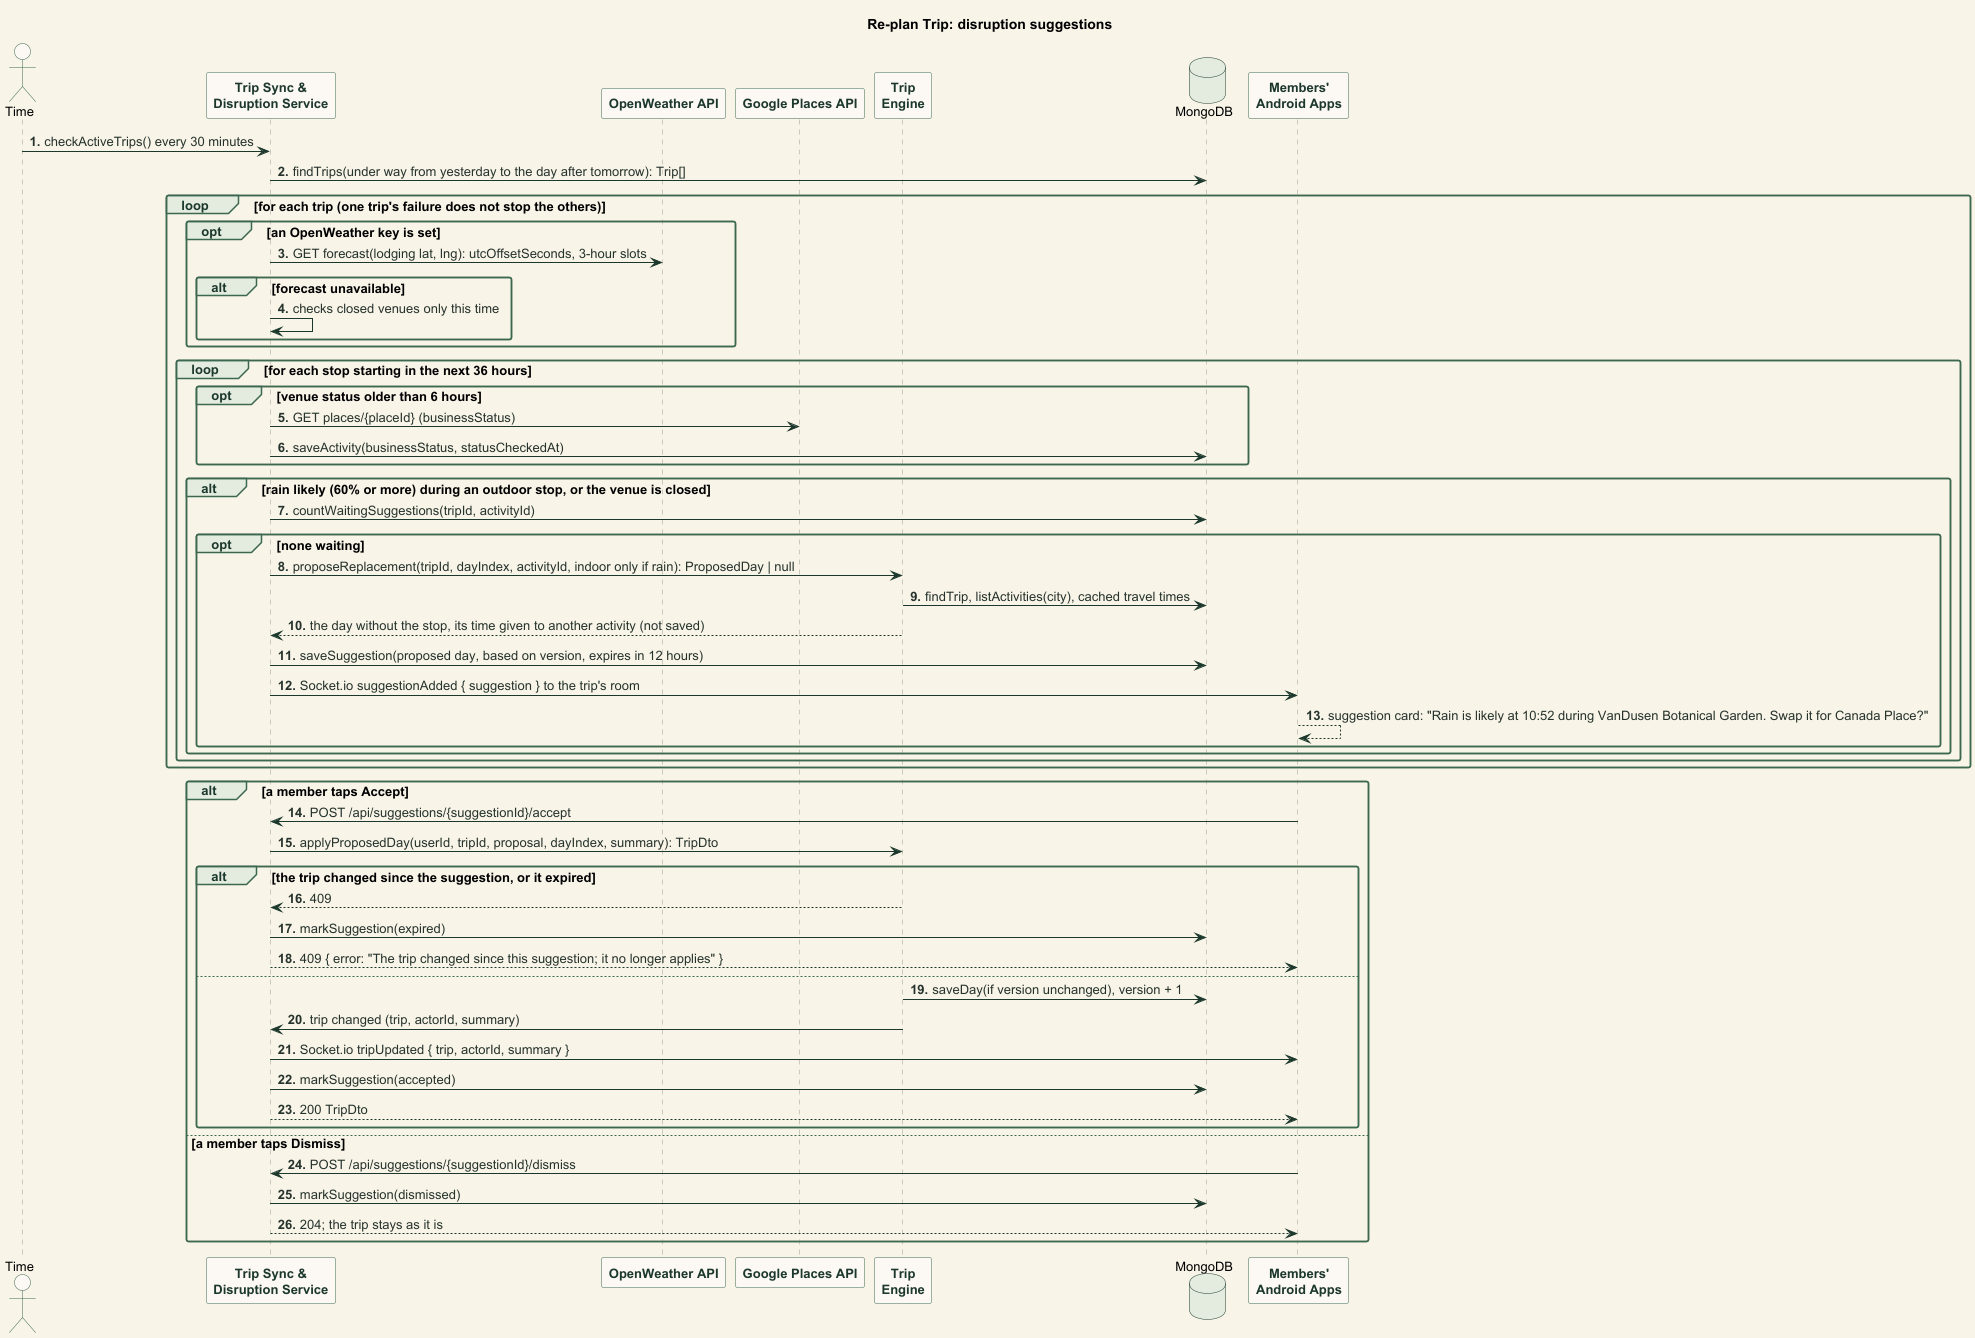
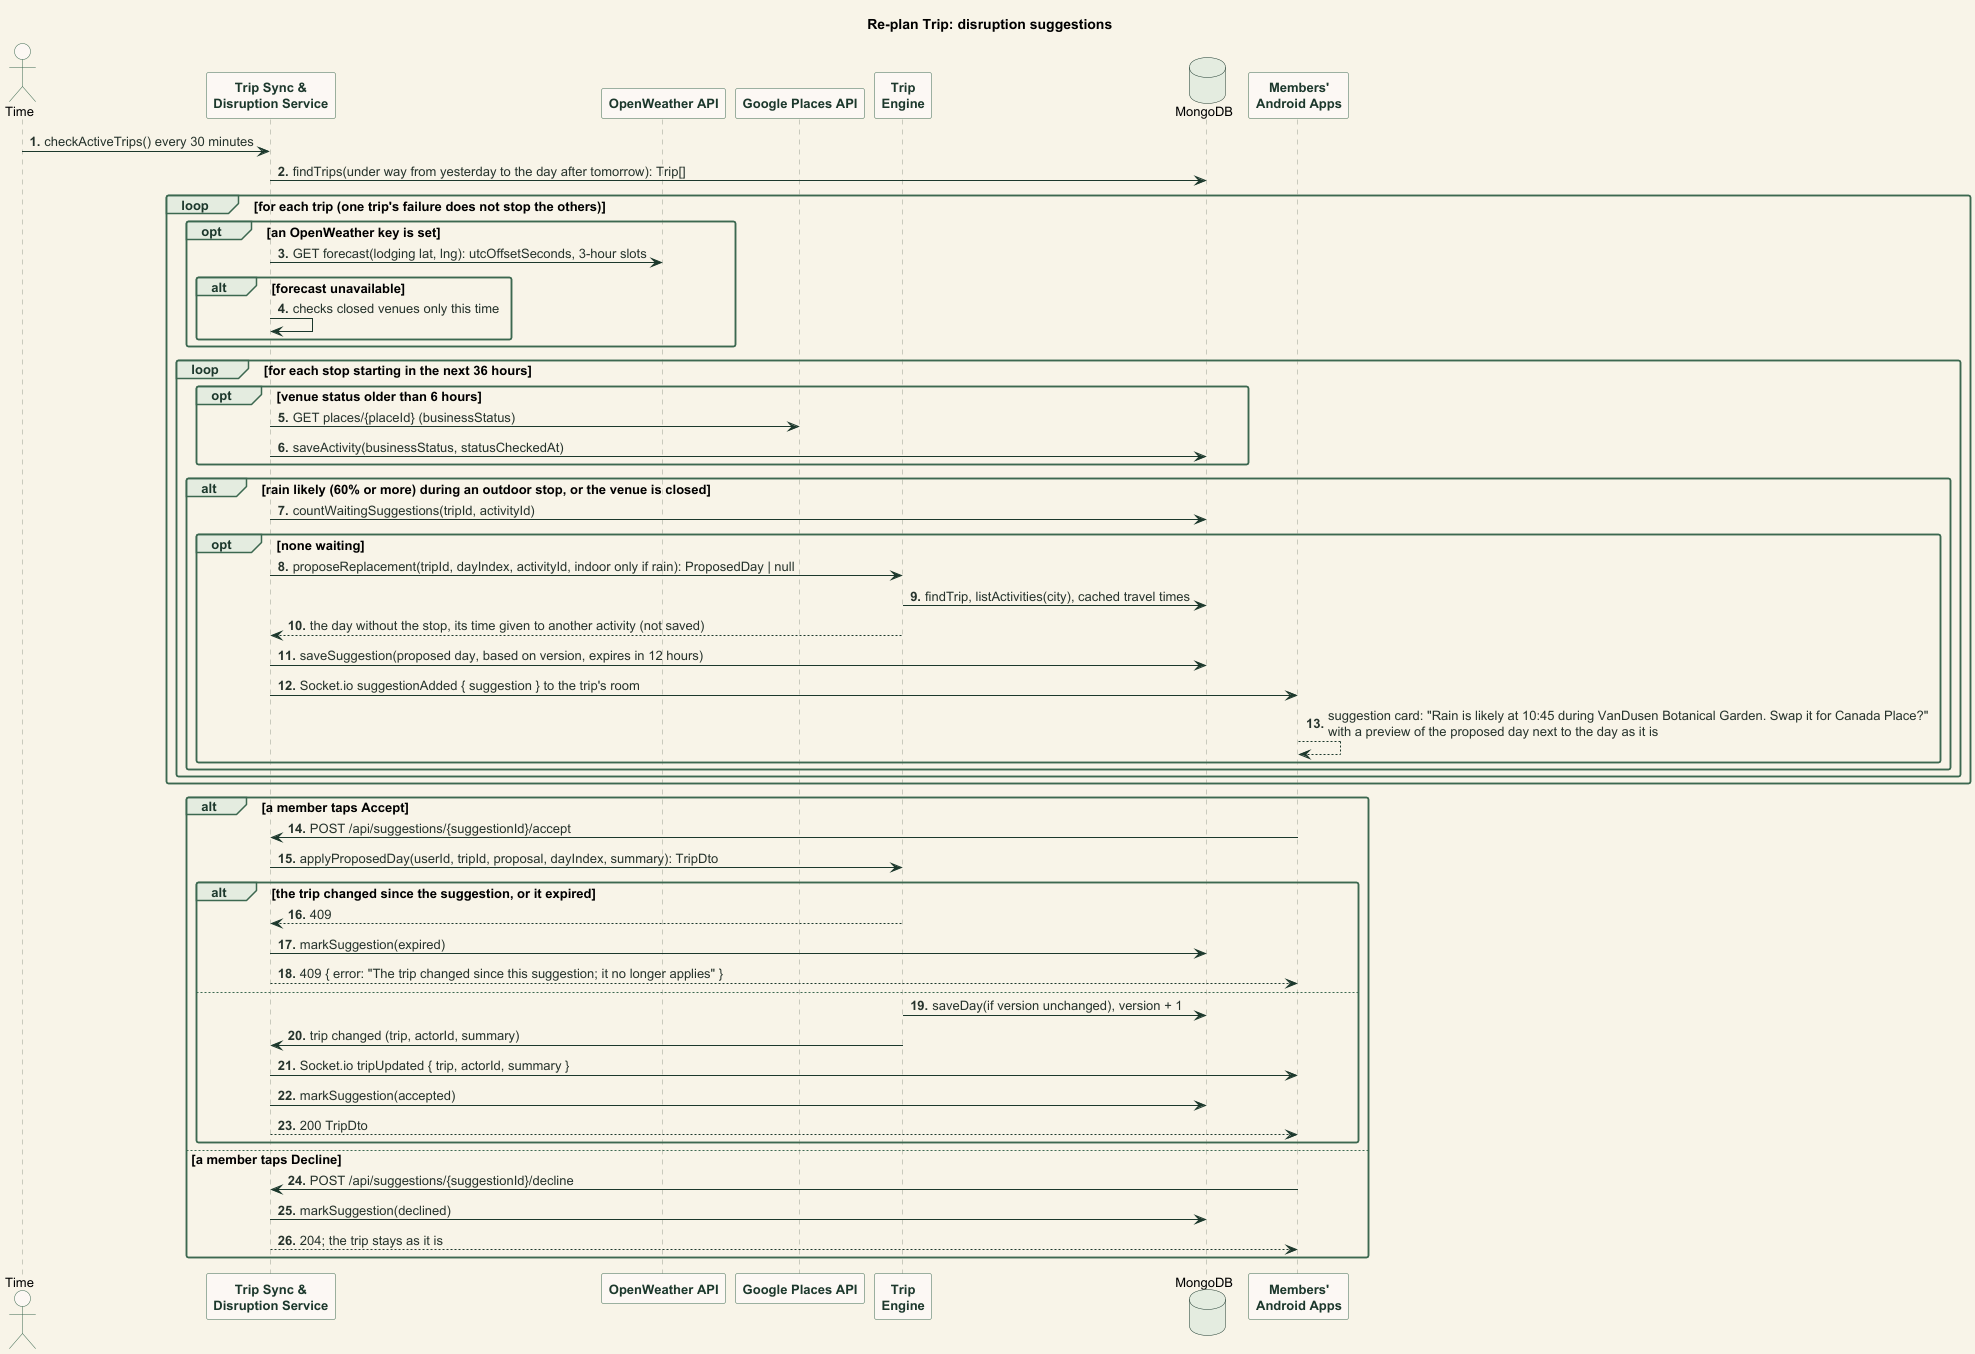
docs: document suggestion previews and Decline
Re-plan Trip shows the preview before a member answers, and Dismiss is
Decline in the use case, the interfaces, the sequence and dependency
diagrams, and Testing.md.

diff --git a/documentation/Requirements_and_Design.md b/documentation/Requirements_and_Design.md
@@ -22,6 +22,7 @@
 | 2026-11-12 | 4.1 | Fixed the peer review's major fault: a member removed from a group kept receiving its live locations. The Group Service now announces who lost access, and the hub disconnects them from the group's trips at once (`tripAccessLost`); every shared position also re-checks access. |
 | 2026-11-12 | 3.1, 4.1 | Added live updates for friends, groups, join requests, posts and suggestions (`liveEvent`), after CP2 feedback asked for friends being added and members joining to appear without a refresh. Each traveller's devices share a room, so one event reaches all of them. |
 | 2026-11-12 | 3.1, 3.4, 4.1, 4.2 | Added red dots for what is new, owned by a new Notification Service that keeps each live event until the traveller opens its part of the app, so the dots survive a restart. The Groups tab replaces the Nearby tab and holds both the traveller's groups and nearby trips, so the dot for group news has a tab. |
+| 2026-11-12 | 3.4, 3.5, 4.1, 4.6 | A suggestion now carries the whole proposed day with its times, and the app previews it against the day as it is before a member answers, after CP2 feedback asked to see the change first. "Dismiss" became "Decline" to match the words used everywhere else (add, remove, accept, decline). |
 | 2026-11-12 | 3.1, 4.1 | Stop times now start on a 15-minute grid (09:15 rather than 09:07), after CP2 feedback that minute-exact times looked machine-made. Rounding waits a few minutes longer, never shortens travel, and is skipped only when it would miss a closing time. |
 
 ---
@@ -93,7 +94,7 @@ Each feature is a package, and each branch of an actor's line ends at one of its
   13. **Notify Trip Party**: every member's device receives the updated plan when it changes. Included by Add Place to Trip, View & Adjust Trip, Tick Off Stops on Arrival and Re-plan Trip.
 - Use cases for feature 5: **Disruption-aware re-planning**
   14. **Monitor Trip Conditions**: on a timer, the system checks the forecast and venue status of active trips' upcoming stops.
-  15. **Re-plan Trip**: for a disrupted stop, the system suggests a new day that members accept or dismiss.
+  15. **Re-plan Trip**: for a disrupted stop, the system suggests a new day that members preview, then accept or decline.
 - Use cases for feature 6: **Friends and the trip feed**
   16. **Find Travellers**: a traveller searches for others by name or email and opens a profile.
   17. **Manage Friends**: a traveller sends, answers or cancels friend requests, or removes a friend.
@@ -249,7 +250,7 @@ Each feature is a package, and each branch of an actor's line ends at one of its
 1. Every 30 minutes, the system checks the stops starting in the next 36 hours of each trip under way: the forecast for outdoor stops (a 60% chance of rain or more) and Google's business status for every stop.
 2. The system detects a disruption: rain during an outdoor stop, or a closed venue.
 3. The system plans the day without that stop, filling the time with another activity (only indoor ones in the rain) and keeping locked stops.
-4. Every member with the trip open sees a suggestion card above the trip with the proposed day, for example "Rain is likely at 10:52 during VanDusen Botanical Garden. Swap it for Canada Place?".
+4. Every member with the trip open sees a suggestion card above the trip, for example "Rain is likely at 10:45 during VanDusen Botanical Garden. Swap it for Canada Place?", with a preview of the day if they accept: every stop with its new time, the removed stop struck through, the new one marked New, and moved ones with their old time.
 5. A member taps Accept.
 6. The system saves the new day, and every member's app shows it with "Ava accepted a suggestion: swapped VanDusen Botanical Garden for Canada Place".
 
@@ -260,7 +261,7 @@ Each feature is a package, and each branch of an actor's line ends at one of its
     - 3a1. The suggestion offers to take the stop out and keep the time free.
 - 4a. A member's device is offline or the trip is not open.
     - 4a1. The suggestion appears the next time they open the trip.
-- 5a. A member taps Dismiss.
+- 5a. A member taps Decline.
     - 5a1. The suggestion disappears and the plan stays as it is.
 - 5b. Someone changed the trip after the suggestion was made, or 12 hours passed.
     - 5b1. The suggestion is no longer shown; accepting it anyway shows "The trip changed since this suggestion; it no longer applies".
@@ -389,11 +390,11 @@ Screens from the CP1 build:
         8. `boolean suggest(ObjectId tripId, int dayIndex, String activityId, String reason)` and server event `suggestionAdded { suggestion: SuggestionDto }`
             - **Purpose**: Asks the Trip Engine for the day without the disrupted stop, saves it as a suggestion for 12 hours, and pushes it to the room, unless one is already waiting for that stop.
         9. `GET /api/suggestions?tripId=<id>` returns `{ suggestions: SuggestionDto[] }`
-            - **Purpose**: Returns the trip's waiting suggestions for its current version. `SuggestionDto` is `{ id, tripId, dayIndex, date, activityId, activityName, reason, message, proposedStops, createdAt, expiresAt }`.
+            - **Purpose**: Returns the trip's waiting suggestions for its current version. `SuggestionDto` is `{ id, tripId, dayIndex, date, activityId, activityName, reason, message, proposedStops, proposedDay, createdAt, expiresAt }`; `proposedDay` is `{ stops: [{ activityId, name, startTime, endTime, travelMinutes }], returnTravelMinutes }`, the whole day if accepted, for the preview.
         10. `POST /api/suggestions/{suggestionId}/accept` returns `TripDto`
             - **Purpose**: Saves the proposed day if the trip is unchanged (409 otherwise) and pushes it like any adjustment.
-        11. `POST /api/suggestions/{suggestionId}/dismiss` returns 204
-            - **Purpose**: Turns the suggestion down. Each suggestion is answered once (409 after that).
+        11. `POST /api/suggestions/{suggestionId}/decline` returns 204
+            - **Purpose**: Declines the suggestion; the trip stays as it is. Each suggestion is answered once (409 after that).
 
 6. **Friend Service**
     - **Purpose**: Manages traveller search, friend requests, friendships and account privacy. It is separate so the rule for who sees a traveller's details and posts lives in one place.

diff --git a/documentation/Testing.md b/documentation/Testing.md
@@ -22,6 +22,7 @@
 | 2026-11-12 | 2.1.1 | Added the live event interfaces (`liveEvent`) for friends, groups, join requests, posts and suggestions. |
 | 2026-11-12 | 2.1.1 | Added the Notification Service interfaces (`GET /api/notifications`, `POST /api/notifications/read`). |
 | 2026-11-12 | 2.1.1 | Plan Trip's interface tests now check that every stop is on the 15-minute grid. |
+| 2026-11-12 | 2.1.1 | The suggestion interface tests check the proposed day used for the preview, and Dismiss became Decline. |
 
 ---
 
@@ -85,9 +86,9 @@
 | **POST /api/nearby/requests/:requestId/accept** | [`backend/tests/no-mock/nearby.test.ts#L287`](../backend/tests/no-mock/nearby.test.ts#L287) | [`backend/tests/mock/nearby.test.ts#L126`](../backend/tests/mock/nearby.test.ts#L126) | Group DB (the group fills up first) |
 | **POST /api/nearby/requests/:requestId/decline** | [`backend/tests/no-mock/nearby.test.ts#L345`](../backend/tests/no-mock/nearby.test.ts#L345) | [`backend/tests/mock/nearby.test.ts#L146`](../backend/tests/mock/nearby.test.ts#L146) | Join request DB |
 | **GET /api/suggestions** | [`backend/tests/no-mock/suggestions.test.ts#L43`](../backend/tests/no-mock/suggestions.test.ts#L43) | [`backend/tests/mock/suggestions.test.ts#L151`](../backend/tests/mock/suggestions.test.ts#L151) | Suggestion DB |
-| **POST /api/suggestions/:suggestionId/accept** | [`backend/tests/no-mock/suggestions.test.ts#L106`](../backend/tests/no-mock/suggestions.test.ts#L106) | [`backend/tests/mock/suggestions.test.ts#L181`](../backend/tests/mock/suggestions.test.ts#L181) | Trip DB (a change saved at the same moment), Suggestion DB |
-| **POST /api/suggestions/:suggestionId/dismiss** | [`backend/tests/no-mock/suggestions.test.ts#L169`](../backend/tests/no-mock/suggestions.test.ts#L169) | [`backend/tests/mock/suggestions.test.ts#L217`](../backend/tests/mock/suggestions.test.ts#L217) | Suggestion DB |
-| **Disruption timer: checkActiveTrips()** | [`backend/tests/no-mock/suggestions.test.ts#L191`](../backend/tests/no-mock/suggestions.test.ts#L191) | [`backend/tests/mock/suggestions.test.ts#L63`](../backend/tests/mock/suggestions.test.ts#L63), [`#L254`](../backend/tests/mock/suggestions.test.ts#L254) (through the production OpenWeather and Places clients) | OpenWeather API, Google Places API (business status), Suggestion DB |
+| **POST /api/suggestions/:suggestionId/accept** | [`backend/tests/no-mock/suggestions.test.ts#L130`](../backend/tests/no-mock/suggestions.test.ts#L130) | [`backend/tests/mock/suggestions.test.ts#L181`](../backend/tests/mock/suggestions.test.ts#L181) | Trip DB (a change saved at the same moment), Suggestion DB |
+| **POST /api/suggestions/:suggestionId/decline** | [`backend/tests/no-mock/suggestions.test.ts#L193`](../backend/tests/no-mock/suggestions.test.ts#L193) | [`backend/tests/mock/suggestions.test.ts#L217`](../backend/tests/mock/suggestions.test.ts#L217) | Suggestion DB |
+| **Disruption timer: checkActiveTrips()** | [`backend/tests/no-mock/suggestions.test.ts#L215`](../backend/tests/no-mock/suggestions.test.ts#L215) | [`backend/tests/mock/suggestions.test.ts#L63`](../backend/tests/mock/suggestions.test.ts#L63), [`#L254`](../backend/tests/mock/suggestions.test.ts#L254) (through the production OpenWeather and Places clients) | OpenWeather API, Google Places API (business status), Suggestion DB |
 | **GET /health** | [`backend/tests/no-mock/health.test.ts#L10`](../backend/tests/no-mock/health.test.ts#L10) | [`backend/tests/mock/health.test.ts#L11`](../backend/tests/mock/health.test.ts#L11) | MongoDB connection state |
 
 The tests without mocks run against a real in-memory MongoDB (`backend/tests/helpers/testDatabase.ts`) preloaded with the Vancouver catalogue, so they need no Google Places key. The engine's scheduling core also has unit tests in [`backend/tests/unit/`](../backend/tests/unit/), including a comparison against a brute-forced optimum.
